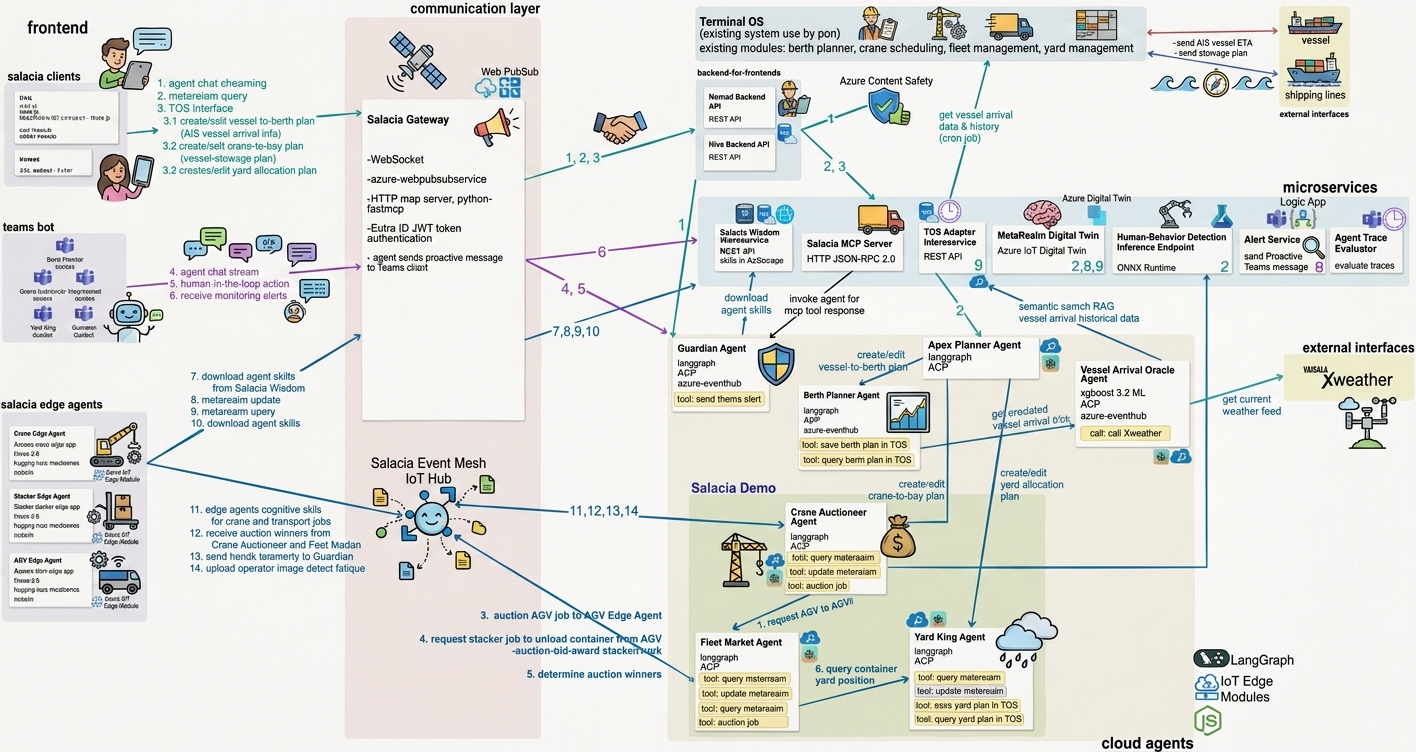
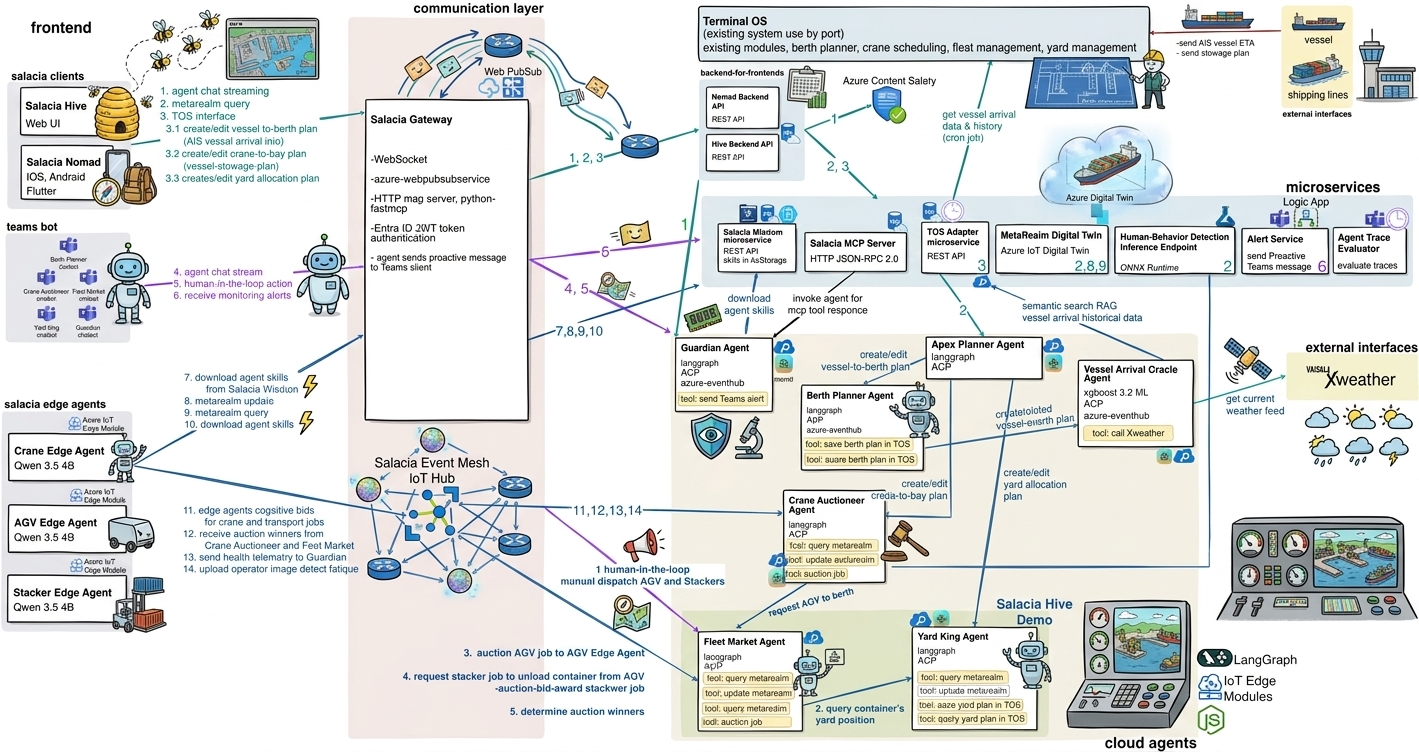
update slides

Changed region(s): [[0.0, 0.0, 1.0, 1.0], [0.2486, 0.4282, 0.2797, 0.4588]]

diff --git a/docs/slides/cognitive-bidding/prompt.md b/docs/slides/cognitive-bidding/prompt.md
@@ -1,0 +1,54 @@
+
+
+## style guide
+
+Style: The style is a clean, technical and innovative
+Atmosphere: 8k resolution, 16:9, architectural concept art style., clinical, and innovative.
+Visuals: High-tech futuristic architectural details balanced with a polished, professional slightly cartoonish yet realistic.
+Lighting: Bright, high-key, and sterile.
+Finish: Clean surfaces, crisp edges, and sophisticated tech-design.
+
+## task
+
+* create infographics
+* add graphics to focus on cognitive bidding part, show person auctionner with hammer doing auctioning
+* do not include title
+
+## cloud agents
+
+Crane Auctioneer Agent
+1. Crane Auctioneer Agent auctions crane job to cranes for loading/unloading containers
+2. Crane Edge Agents perform Cognitive Bidding and sends back bids
+3. Crane Auctionner Agent Analyze bids and award crane Winner 
+
+Fleet Market Agent
+1. Auction transport jobs to AGVs and stackers for transporting containers between berth and yard.
+2. AGV and stacker Edge agents perform Cognitive Bidding and sends back bids
+3. Fleet Market Agent analyze bids and award to winner AGV and stacker
+
+
+## edge agents
+* Crane Edge Agents
+* AGV Edge Agents
+* Stacker Edge Agent
+
+
+## Cognitive Bidding
+
+It is cognitive because each edge agent reasons over multiple live factors before deciding:
+
+Can I do this job safely?
+Am I already overloaded?
+How far am I from the job location?
+Will accepting this job delay my current commitments?
+Am I healthy enough to perform efficiently?
+Is another machine likely better suited than me?
+
+So the bid is really a smart self-assessment of:
+
+capability
+confidence
+cost
+timing
+risk
+operational fitness

diff --git a/docs/slides/day-2-operation/prompt.md b/docs/slides/day-2-operation/prompt.md
@@ -17,13 +17,13 @@ Below are some processes of day two operations and monitorings for Salacia, An i
 1. Create an infographic to describe the day two operations and monitoring processes below.
 2. Make sure to Include numbering in the 3 operation and monitoring processes
 3. Make sure the two uploaded images are very clearly visible and large. 
-4. Do not create title 
+4. `Do not create title`
 5. include uploaded "Grafana dashboards" and "Human-in-the-loop in Teams" images in Infographic
 6. Free to add new graphics that can better describe the Operation and Monitoring Processes 
 
 ## day 2 operations and monitoring processes
 
-1. Agent errors in App Insights trigger Human-in-the-loop in Teams.
+1. Agent errors in App Insights trigger Azure Alert -> Azure Logic App -> MS Teams error message.
 2. Cron job evaluate agent trace trajectory, tool calls and reasoning messages in App Insights and trigger Azure Alert if evaluation fail, send Teams/email alerts
 3. custom Grafana Agent Dashboards
  * Trace evaluation error result

diff --git a/docs/slides/architecture/azure-design/prompt.md b/docs/slides/architecture/azure-design/prompt.md
@@ -7,11 +7,11 @@
 
 ## tasks
 
+* all text color must match original
+* all text are clear and readable
 * retain original diagram in infographics
 * ensure all icons are visible
 * all boxes remain intact, boxes can be colorful
 * do not mix up line connectors from source to destination icons
-* all text color must match original
-* all text are clear and readable
 * add cartoonish graphics to diagram to better explain
 * Do not include title

diff --git a/docs/slides/architecture/software-design/prompt.md b/docs/slides/architecture/software-design/prompt.md
@@ -10,6 +10,7 @@
 ## tasks
 
 * retain original diagram in infographics
+* do not duplicate graphics
 * all text color follow original diagram 
 * all text are clear and readable
 * add cartoonish graphics to diagram to better explain
